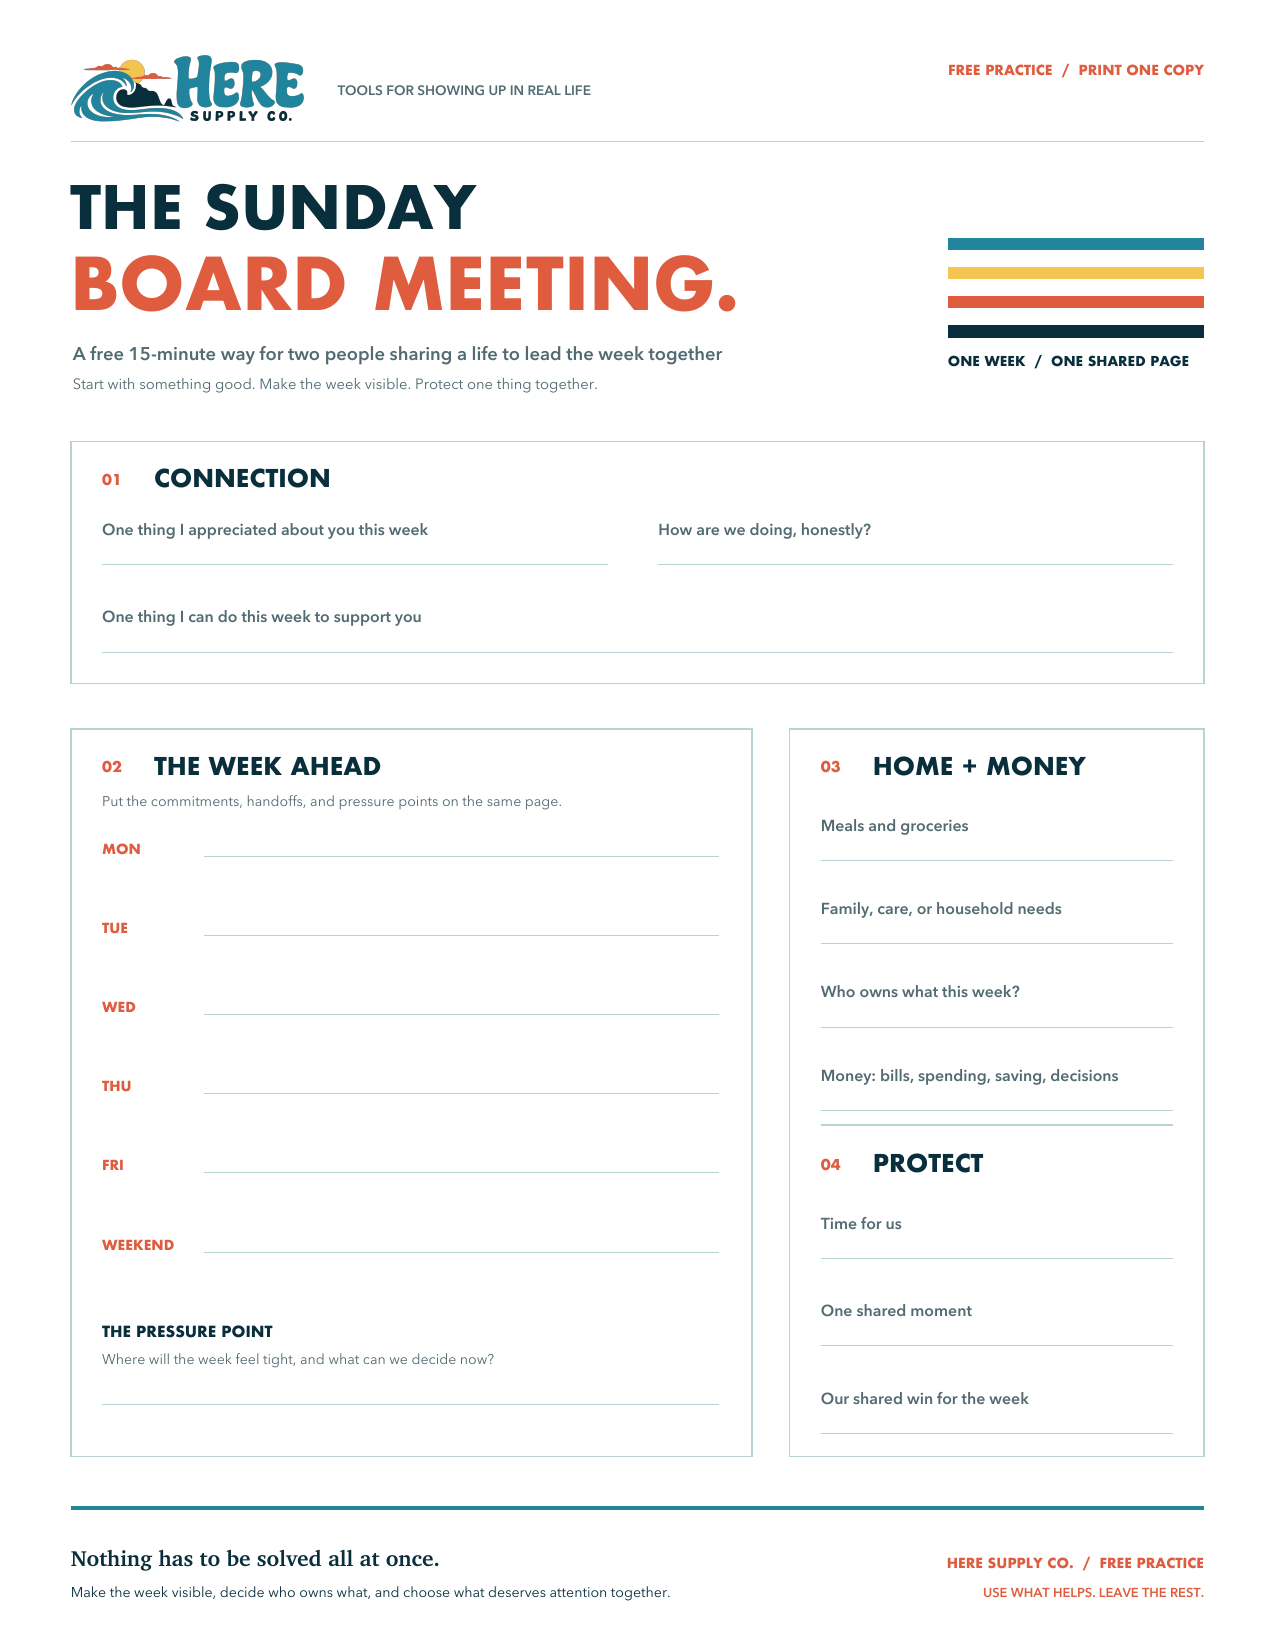
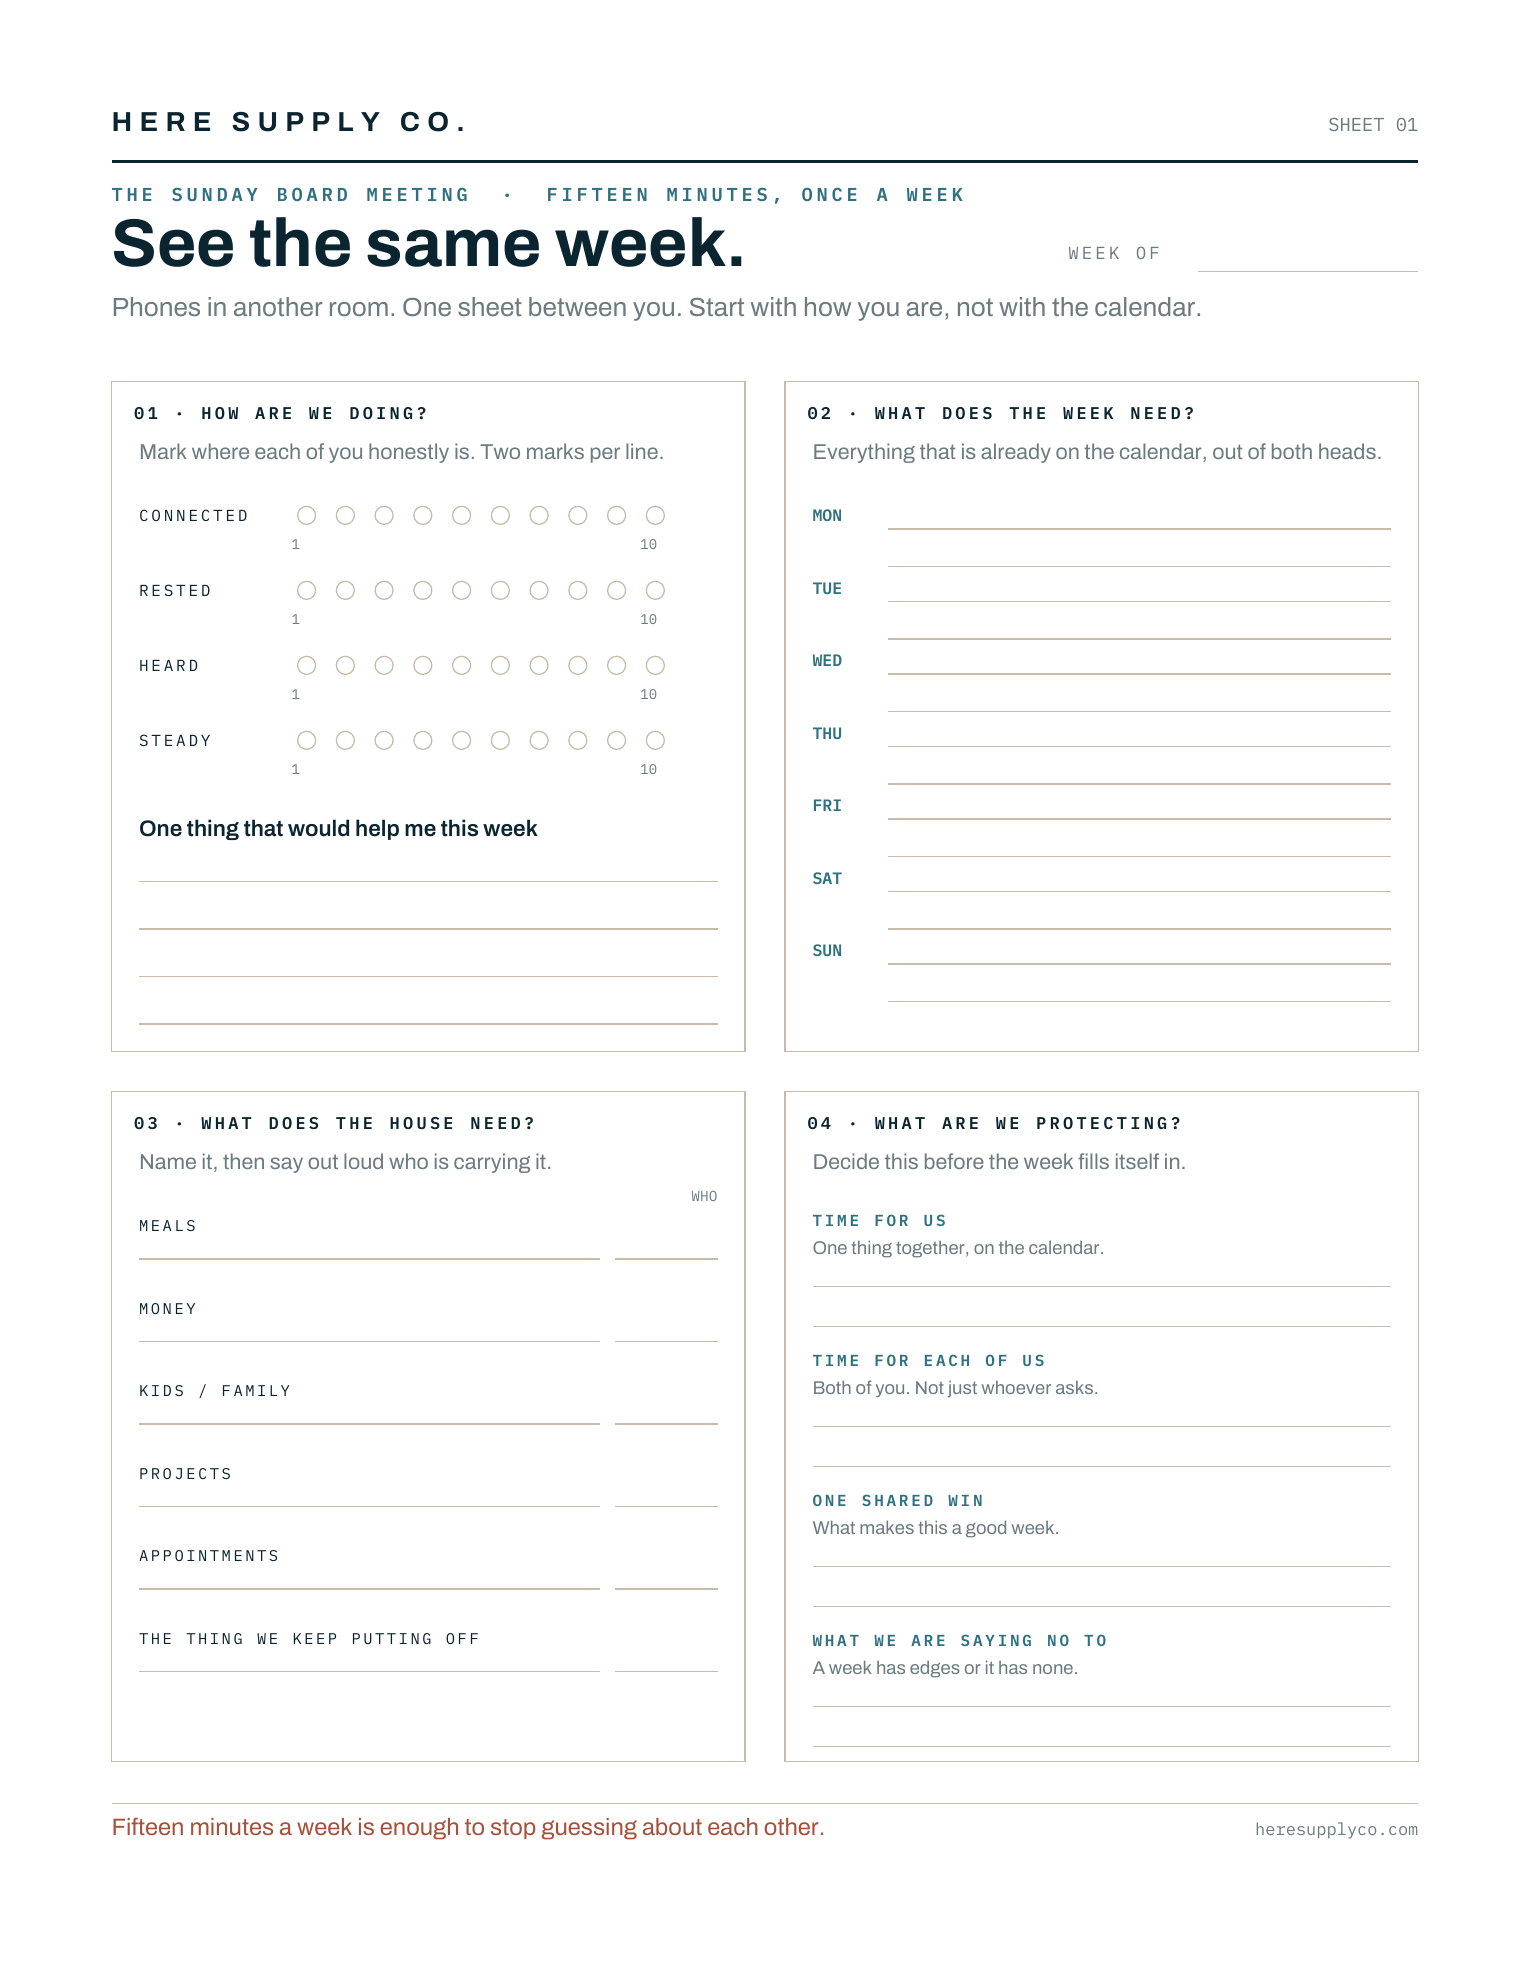
Unify guide preview and improve site readability

diff --git a/app/mailerlite-form.tsx b/app/mailerlite-form.tsx
@@ -12,69 +12,19 @@ const GUIDE_URL = "/downloads/sunday-board-meeting.pdf";
  * The exchange is kept honest: one field, the guide arrives on the next
  * screen, and what the email is for is stated plainly.
  */
-export function SundayBoardSignupForm({
-  unlocked = false,
-  error = false,
-  source = "sunday_board",
-  next = "/sunday-board",
-}: {
-  unlocked?: boolean;
-  error?: boolean;
-  /** Which page earned the lead, so it is possible to see what converts. */
-  source?: string;
-  next?: string;
-}) {
-  if (unlocked) {
-    return (
-      <div className={styles.card} id="get-board">
-        <span className={styles.kicker}>Your guide is ready</span>
-        <h3 className={styles.title}>Print one copy. Put it between you.</h3>
-        <p className={styles.blurb}>
-          Fifteen minutes, once a week, on the same page. That is the whole practice.
-        </p>
-        <a className={styles.download} href={GUIDE_URL} download="sunday-board-meeting.pdf">
-          Download the meeting guide <span aria-hidden="true">↓</span>
-        </a>
-        <p className={styles.note}>
-          It is also on its way to your inbox, so you can find it again without hunting.
-        </p>
-      </div>
-    );
-  }
-
+export function SundayBoardSignupForm() {
   return (
     <div className={styles.card} id="get-board">
       <span className={styles.kicker}>Free · 15-minute meeting guide</span>
-      <h3 className={styles.title}>Get the Sunday Board Meeting.</h3>
+      <h3 className={styles.title}>Print one copy. Put it between you.</h3>
       <p className={styles.blurb}>
-        The one-page guide Chris and Rhea actually use. Tell us where to send it and it opens on
-        the next screen.
+        The exact one-page guide shown below. No email gate, no account, and nothing to set up.
       </p>
-
-      <form className={styles.form} method="post" action="/api/subscribe">
-        <input type="hidden" name="source" value={source} />
-        <input type="hidden" name="next" value={next} />
-        <label className={styles.field}>
-          <span>Your email</span>
-          <input
-            type="email"
-            name="email"
-            autoComplete="email"
-            placeholder="you@example.com"
-            required
-            aria-invalid={error || undefined}
-          />
-        </label>
-        <button type="submit" className={styles.submit}>
-          Send me the guide <span aria-hidden="true">→</span>
-        </button>
-      </form>
-
-      {error && <p className={styles.error}>That email did not look right. Try it once more.</p>}
-
+      <a className={styles.download} href={GUIDE_URL} download="sunday-board-meeting.pdf">
+        Download the meeting guide <span aria-hidden="true">↓</span>
+      </a>
       <p className={styles.note}>
-        The guide, and occasionally something useful from Chris. No sequence of upsells, and you
-        can leave in one click.
+        Set a fifteen-minute time, put phones away, and use the page to see the same week before it fills itself.
       </p>
     </div>
   );

diff --git a/app/home.module.css b/app/home.module.css
@@ -1066,3 +1066,32 @@
   margin-top: 1.05em;
 }
 .founderSection { padding-bottom: clamp(70px, 7vw, 104px); }
+
+
+/* Final readability pass: the home page has one compact header and every dark
+   field carries light body copy. These rules are deliberately last because
+   earlier style experiments were competing with one another. */
+.header { grid-template-columns:minmax(250px,1fr) auto auto; gap:clamp(22px,3vw,48px); }
+.header .brand { min-width:250px; }
+.closing { color:var(--hsc-white); background:var(--hsc-ink-soft); }
+.closing .eyebrow { color:var(--hsc-brass); }
+.closing h2 { color:var(--hsc-white); }
+.closing h2 em { color:var(--hsc-brass); }
+.closing > p:not(.eyebrow),.closing .foundingNote { color:var(--hsc-paper-raised); font-size:18px; line-height:1.62; }
+.closing > div > a:last-child { color:var(--hsc-paper-raised); }
+.closing > div > a:last-child:hover { color:var(--hsc-brass); }
+.heroFooter { background:var(--hsc-ink-soft); }
+.heroFooter span { padding:28px clamp(24px,4.5vw,76px); color:var(--hsc-paper-raised); font-size:16px; line-height:1.5; }
+.heroFooter b { color:var(--hsc-brass); font-size:11px; }
+@media (max-width:1120px) {
+  .header { grid-template-columns:1fr auto; }
+  .nav { display:none; }
+  .mobileNav { min-height:45px; padding:0 20px; display:flex; align-items:center; gap:20px; overflow-x:auto; color:var(--hsc-copy); background:var(--hsc-paper-raised); border-bottom:1px solid rgba(9,47,60,.14); }
+  .mobileNav a { flex:none; padding:12px 0; color:inherit; font-size:12px; font-weight:700; text-decoration:none; }
+}
+@media (max-width:760px) {
+  .header { grid-template-columns:1fr; gap:0; padding:15px 18px; }
+  .header .brand { min-width:0; }
+  .headerAction { display:none; }
+  .heroFooter span { padding:22px 18px; font-size:16px; }
+}

diff --git a/app/sunday-board/page.tsx b/app/sunday-board/page.tsx
@@ -21,12 +21,7 @@ export const metadata: Metadata = {
   },
 };
 
-export default async function SundayBoard({
-  searchParams,
-}: {
-  searchParams: Promise<{ ok?: string; err?: string }>;
-}) {
-  const params = await searchParams;
+export default function SundayBoard() {
   return (
     <main id="main-content" className="site">
       <Header />
@@ -66,7 +61,7 @@ export default async function SundayBoard({
             <li>Free to use, with no account required</li>
           </ul>
         </div>
-        <SundayBoardSignupForm unlocked={params.ok === "1"} error={params.err === "1"} />
+        <SundayBoardSignupForm />
       </section>
 
       <section id="worksheet" className="worksheet-section">

diff --git a/app/components.tsx b/app/components.tsx
@@ -8,8 +8,8 @@ import { Wordmark } from "./brand/wordmark";
  * a sticker; it now earns its keep as artwork at size — printables, the field
  * card, PDF covers.
  */
-export function BrandWordmark({ onDark = false }: { onDark?: boolean }) {
-  return <Wordmark size="md" onDark={onDark} />;
+export function BrandWordmark({ onDark = false, size = "md" }: { onDark?: boolean; size?: "sm" | "md" | "lg" | "xl" }) {
+  return <Wordmark size={size} onDark={onDark} />;
 }
 
 export function SundayBoardWordmark() {

diff --git a/app/page.tsx b/app/page.tsx
@@ -60,7 +60,7 @@ export default function Home() {
     <main id="main-content" className={styles.home}>
       <header className={styles.header}>
         <Link className={styles.brand} href="/" aria-label="Here Supply Co. home">
-          <BrandWordmark />
+          <BrandWordmark size="sm" />
         </Link>
         <nav className={styles.nav} aria-label="Main navigation">
           <a href="#start">Start here</a>
